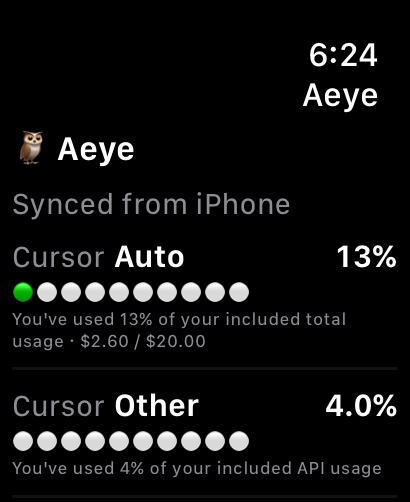
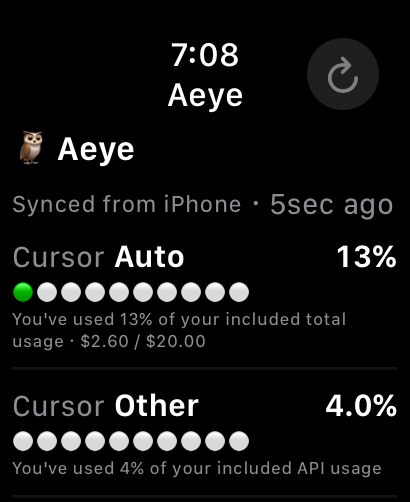
Record the 1.0.1 submission
Claude-Session: https://claude.ai/code/session_01YHLcQUiYz5PJdjAQhtkjLR

Changed region(s): [[0.0293, 0.3884, 0.9659, 0.4482], [0.7317, 0.0598, 0.9366, 0.239], [0.4098, 0.0896, 0.6146, 0.239]]

diff --git a/ios/docs/app-store-submission.md b/ios/docs/app-store-submission.md
@@ -3,7 +3,7 @@
 Everything needed to take `ios/` from source to a review submission, plus the two things that
 can get this particular app rejected.
 
-Current release target: **1.0.1 (build 2)** — `ios/project.yml`, `MARKETING_VERSION` /
+Current release target: **1.0.1 (build 2)** — submitted for review 23 September 2026 — `ios/project.yml`, `MARKETING_VERSION` /
 `CURRENT_PROJECT_VERSION`.
 
 ---
